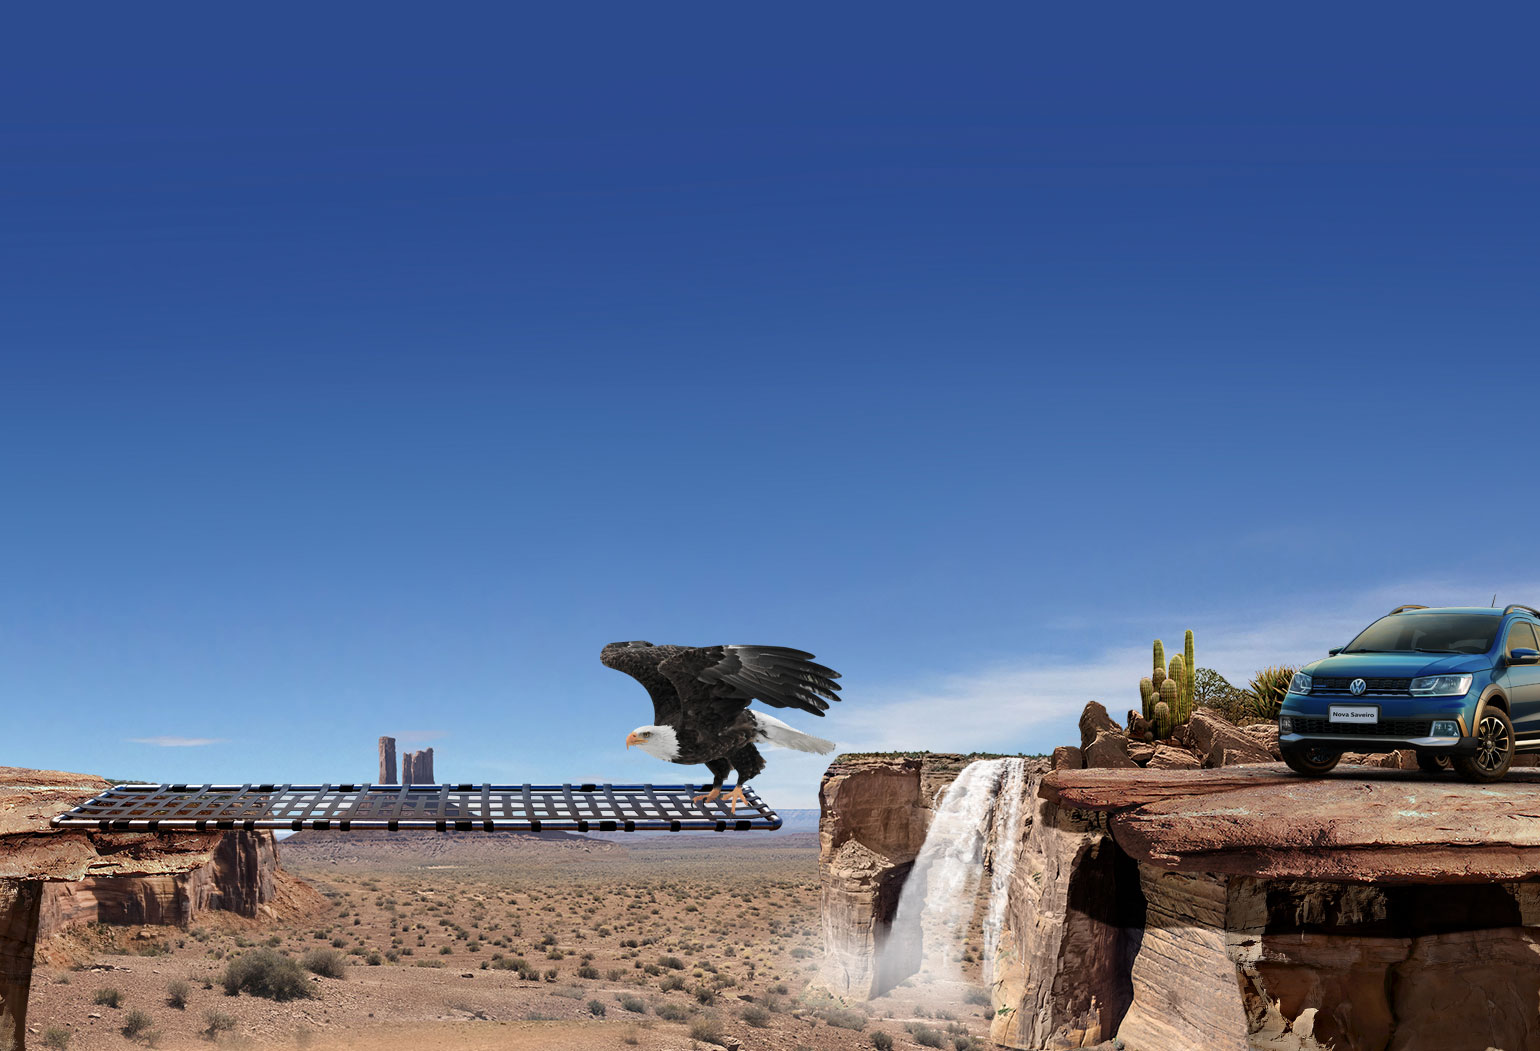
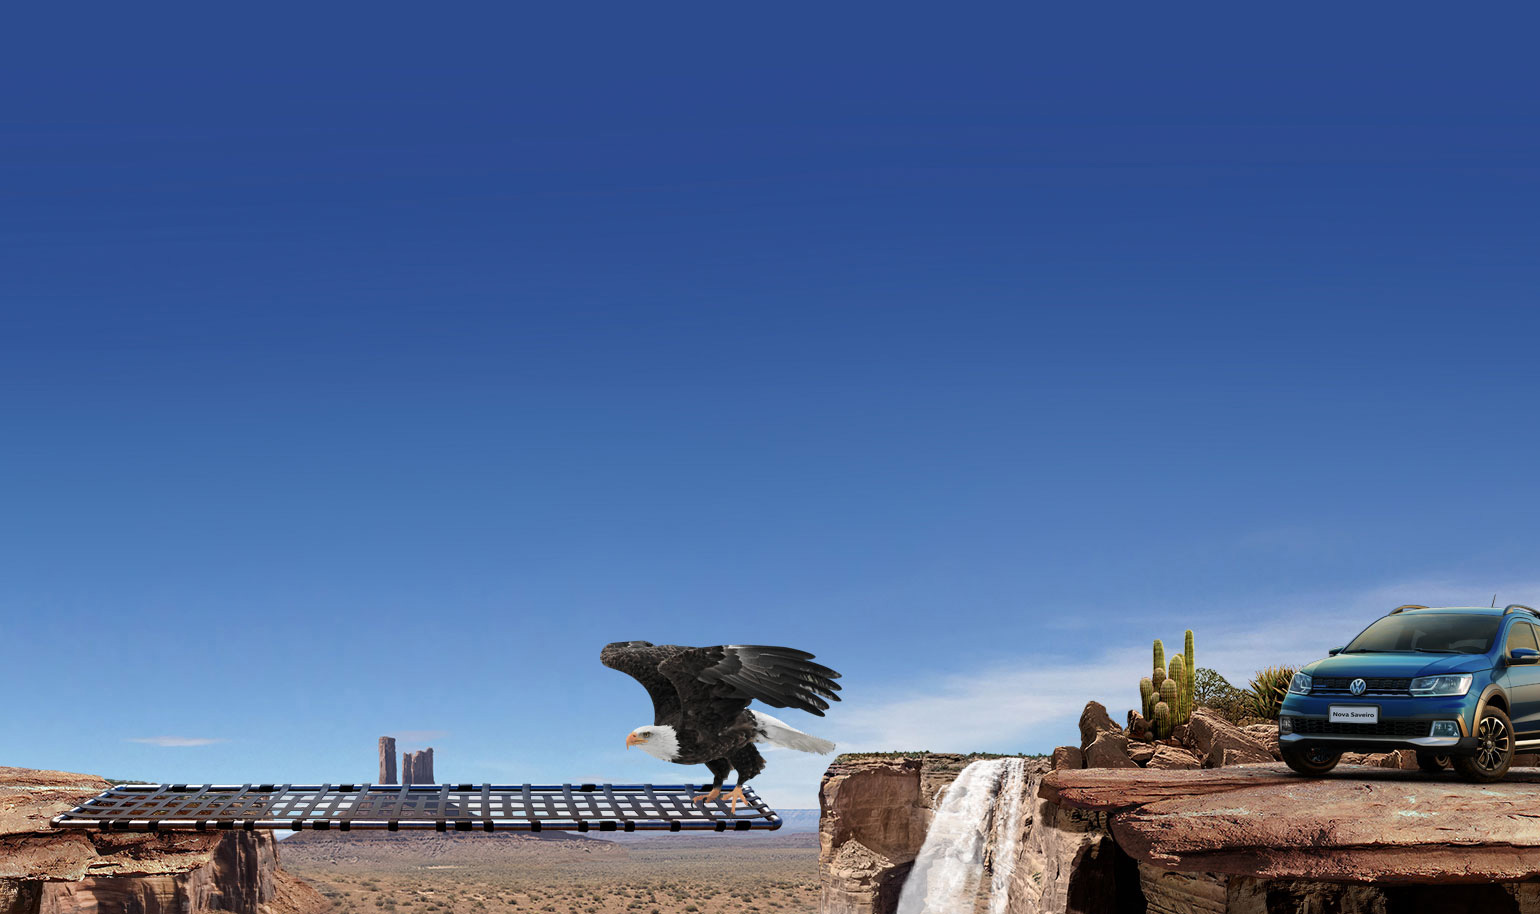
fix viewer offset

diff --git a/src/virtualexperience-app/panel-cross-slider.html b/src/virtualexperience-app/panel-cross-slider.html
@@ -18,7 +18,7 @@
             height: calc(100vw * 0.475 / 1.4183);
             width: 47.5%;
             display: block;
-            bottom: 14.2vw;
+            bottom: 5.9vw;
             left: 3.2%;
             pointer-events: none;
         }
